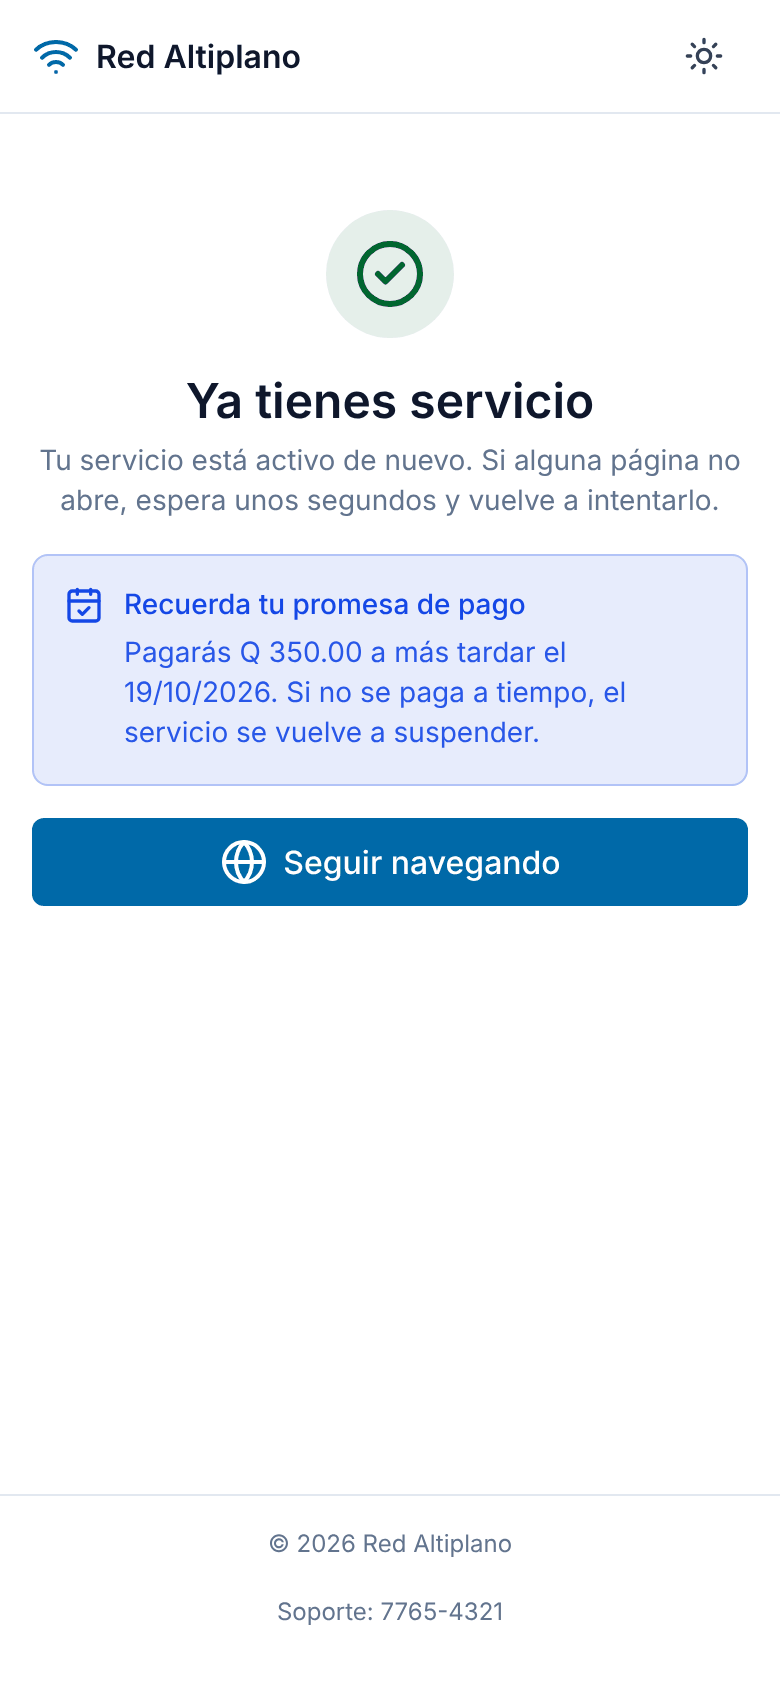
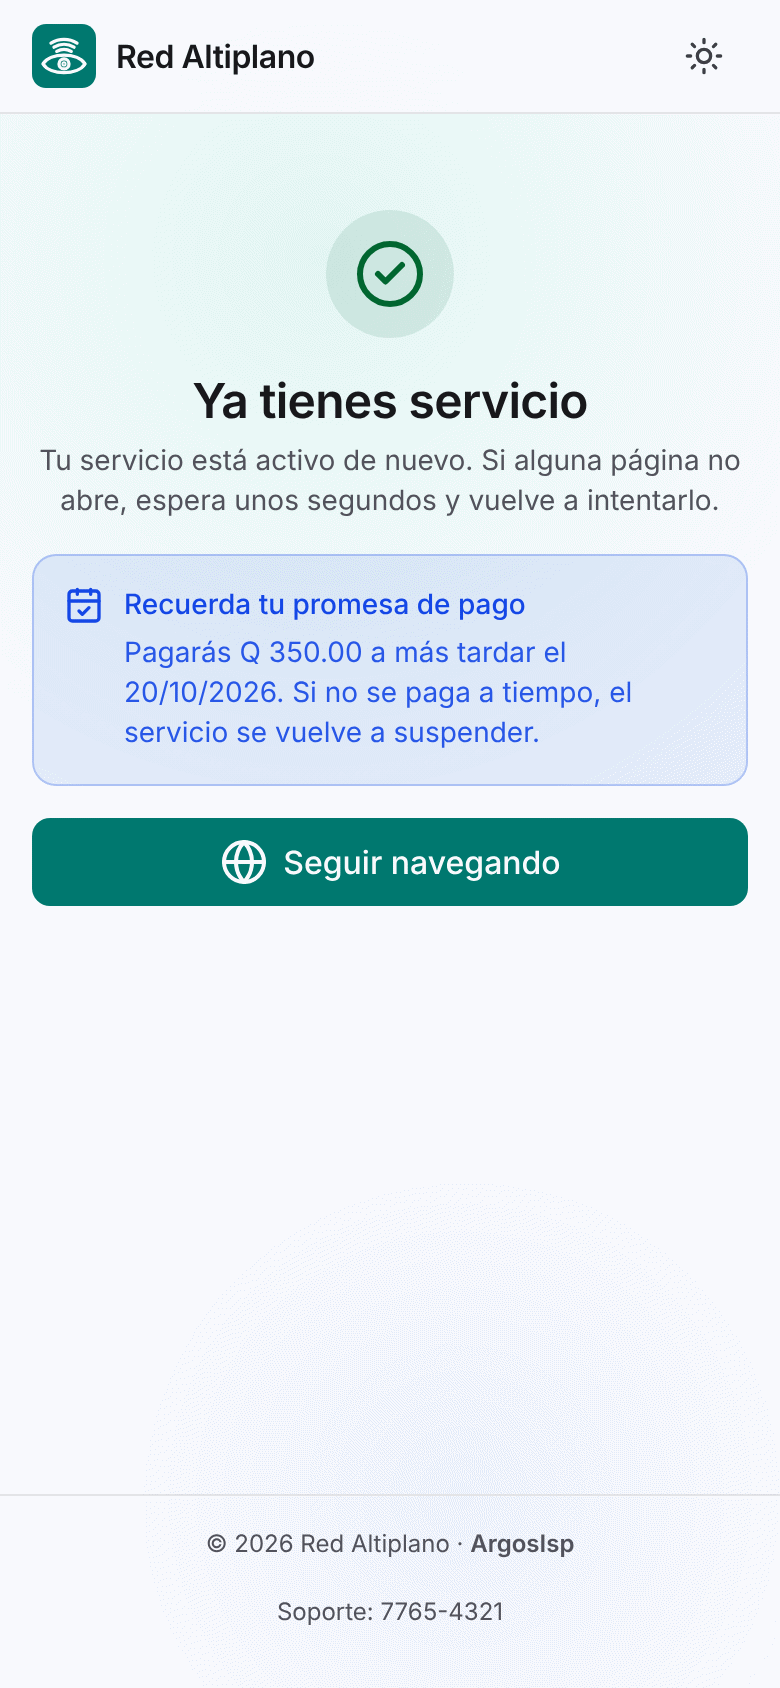
docs(portal): identidad visual en el README y capturas nuevas de la guía
README: sección "vidrio y luz" (tokens, materiales, aura liviana de /corte,
logo, favicon, estados) y preferencias del sistema en accesibilidad.
docs/piloto/img: las nueve capturas con el tema nuevo (390 px a 2×, PNG de
256 colores con tramado, 78–138 KB).

Claude-Session: https://claude.ai/code/session_01LR5MgcLBWcMfgyGxrw4PYs

diff --git a/apps/portal/README.md b/apps/portal/README.md
@@ -124,7 +124,7 @@ En desarrollo (`nuxt dev`) no se pone CSP: Vite necesita scripts propios.
 
 `docs/piloto/portal-cliente.md`: qué ve un cliente cortado, promesa, comprobante, Telegram y dudas
 frecuentes, con capturas a 390 px en `docs/piloto/img/` (build de producción con fixtures,
-Chromium, PNG de 128 colores; menos de 60 KB cada una).
+Chromium a 2×, PNG de 256 colores con tramado para que el aura no quede en bandas; menos de 150 KB cada una).
 
 Los modales dejan margen a la derecha del título (`modal.slots.wrapper` en `app.config.ts`): a 390 px
 la descripción pasaba por debajo del botón de cerrar.
@@ -201,11 +201,31 @@ cupo, historial o deuda se ofrece "Contactar a la oficina".
 
 - Controles de al menos 44 × 44 px: `min-h-11 min-w-11` en `UButton`, `min-h-11` en `UInput`, `USelect`
   y `USelectMenu`, casillas del código de 44 px (`app.config.ts`); el logo y el enlace del pie también.
-- Contraste 4.5:1 en claro y oscuro: en claro los colores semánticos usan el tono 700 (verde 800) y
-  `text-dimmed` el slate-500; en oscuro, los 400 (`assets/css/main.css`).
-- Foco visible: el anillo de Nuxt UI en controles y un `outline` del color primario en enlaces.
+- Contraste 4.5:1 en claro y oscuro: en claro los colores semánticos usan los tonos 700–800 y
+  `text-dimmed` el zinc-500; en oscuro, los 300–400 (`assets/css/main.css`).
+- Foco visible: `outline` de 2 px del color primario en todo `:focus-visible`.
+- Preferencias del sistema: menos movimiento (sin deriva del aura ni animaciones), menos transparencia
+  (vidrio y modales sólidos, sin aura) y más contraste (texto atenuado más fuerte, bordes marcados, sin halos).
 - Revisión automática con Playwright (tamaño de toque, nombre accesible, contraste de texto y foco con
   Tab) en `/corte`, `/entrar`, el paso del código y los modales de promesa, depósito y comprobante.
+
+## Identidad visual "vidrio y luz"
+
+La misma del panel (skill horus-identity, decisión del PM): un solo color de marca (teal), vidrio en la
+capa funcional sobre un aura de color, tarjetas casi sólidas para el contenido y luz solo en la acción
+primaria (una por vista, solo en oscuro). Nunca colores crudos de Tailwind: tokens semánticos.
+
+| Pieza | Dónde |
+| --- | --- |
+| Tokens por modo (AA), materiales (`chrome-material`, `surface-card`, `--hf-glass-strong`), aura, halos y las tres preferencias del sistema | `app/assets/css/main.css` |
+| Colores semánticos, halo del botón primario, `UCard`/`UPageCard` = tarjeta, `UModal`/`USelect`/`UPopover` = vidrio fuerte | `app/app.config.ts` |
+| Aura (primer hijo del layout) y barra superior de vidrio; en `/corte`, aura liviana `app-aura-lite` (degradado radial, sin `filter: blur` ni deriva) | `app/layouts/default.vue` |
+| Marca de ArgosIsp: cuadro teal 700, radio 7/32, trazo blanco (`marca`) o solo trazos en `currentColor` (`linea`, tamaños grandes) | `app/components/LogoArgos.vue` |
+| Favicon (misma figura; también con Host ajeno para el portal cautivo) | `public/favicon.svg` |
+| Estados con icono Lucide + texto + color (servicio, factura, pago, promesa, comprobante, pago en línea) | `app/utils/estadoServicio.ts`, `cuenta.ts`, `comprobante.ts`, `pago.ts` |
+
+Sin `backdrop-filter` (Android viejo) el vidrio pasa a sólido. El tema no agrega peticiones: el logo va
+en línea y no hay fuentes externas. El PDF del aviso de cobro no lleva logo (ver `.claude/integration/a5.md`).
 
 ## Datos de la empresa y contacto (configurables desde el panel)
 
